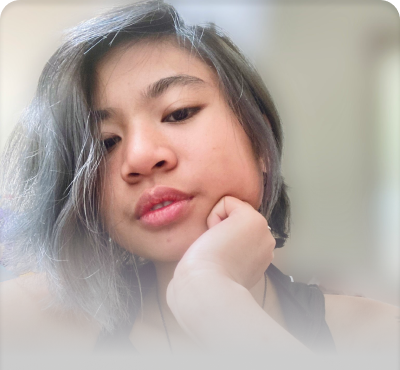
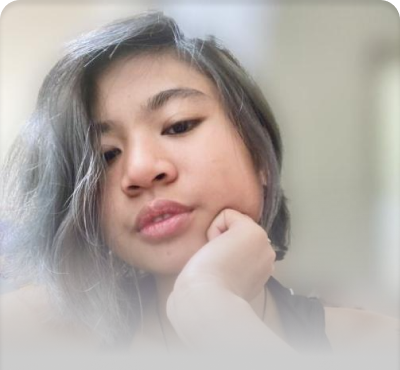
Finish card content hovering effect

diff --git a/sluggaming/src/components/Staff Page/StaffCard.jsx b/sluggaming/src/components/Staff Page/StaffCard.jsx
@@ -1,48 +1,95 @@
 import React from 'react'
-import ReactCardFlip from 'react-card-flip'
-import { useState } from 'react';
+// import ReactCardFlip from 'react-card-flip'
+// import { useState } from 'react';
+import { Link } from 'react-router-dom'
+import { FaLinkedin, FaInstagram } from "react-icons/fa6";
 
-const StaffCard = ({ name, role, location, image, username, pronouns, content }) => {
-  const [isFlipped, setIsFlipped] = useState(false);
+const StaffCard = ({ name, role, location, image, username, pronouns, content, linkedin, instagram }) => {
+  // const [isFlipped, setIsFlipped] = useState(false);
 
-  function flipCard() {
-    setIsFlipped(!isFlipped);
-  }
+  // function flipCard() {
+  //   setIsFlipped(!isFlipped);
+  // }
   return (
-    <div className=''>
-      <ReactCardFlip flipDirection='horizontal' isFlipped={isFlipped}>
-        <section id='front' className='card' onClick={flipCard}>
-          <div className='shadow-lg rounded-[25px]'>
-            <div className='rounded-t-[25px]'>
-              <img src={require(`../../images/Staff Page/${image}`)} alt={name} loading="lazy" width="745" height='676' />
-            </div>
-            <div className='px-7 pt-7 pb-14 bg-[#00588F] rounded-b-[25px]'>
-              <div className='text-3xl text-[#FFCC04] mb-3'>
-                {name}
-              </div>
-              <div className='text-white text-2xl pt-1'>
-                {role}
-              </div>
-              <div className='text-white text-2xl flex items-center pt-1'>
-                <svg xmlns="http://www.w3.org/2000/svg" width="24" height="24" viewBox="0 0 24 24" fill="none" className='mr-2'>
-                  <path d="M12 12.75C13.6569 12.75 15 11.4069 15 9.75C15 8.09315 13.6569 6.75 12 6.75C10.3431 6.75 9 8.09315 9 9.75C9 11.4069 10.3431 12.75 12 12.75Z" stroke="white" stroke-width="2" stroke-linecap="round" stroke-linejoin="round" />
-                  <path d="M19.5 9.75C19.5 16.5 12 21.75 12 21.75C12 21.75 4.5 16.5 4.5 9.75C4.5 7.76088 5.29018 5.85322 6.6967 4.4467C8.10322 3.04018 10.0109 2.25 12 2.25C13.9891 2.25 15.8968 3.04018 17.3033 4.4467C18.7098 5.85322 19.5 7.76088 19.5 9.75V9.75Z" stroke="white" stroke-width="2" stroke-linecap="round" stroke-linejoin="round" />
-                </svg>
-                {location}
-              </div>
-            </div>
+    // <div className=''>
+    //   <ReactCardFlip flipDirection='horizontal' isFlipped={isFlipped}>
+    //     <section id='front' className='card' onClick={flipCard}>
+    //       <div className='shadow-lg rounded-[25px] '>
+    //         <div className=''>
+    //           <div className='rounded-t-[25px] z-2'>
+    //             <img src={require(`../../images/Staff Page/${image}`)} alt={name} loading="lazy" width="745" height='676' />
+    //           </div>
+    //         </div>
+    //         <div className='px-7 pt-7 pb-14 bg-[#00588F] rounded-b-[25px]'>
+    //           <div className='text-3xl text-[#FFCC04] mb-3'>
+    //             {name}
+    //           </div>
+    //           <div className='text-white text-2xl pt-1'>
+    //             {role}
+    //           </div>
+    //           <div className='text-white text-2xl flex items-center pt-1'>
+    //             <svg xmlns="http://www.w3.org/2000/svg" width="24" height="24" viewBox="0 0 24 24" fill="none" className='mr-2'>
+    //               <path d="M12 12.75C13.6569 12.75 15 11.4069 15 9.75C15 8.09315 13.6569 6.75 12 6.75C10.3431 6.75 9 8.09315 9 9.75C9 11.4069 10.3431 12.75 12 12.75Z" stroke="white" stroke-width="2" stroke-linecap="round" stroke-linejoin="round" />
+    //               <path d="M19.5 9.75C19.5 16.5 12 21.75 12 21.75C12 21.75 4.5 16.5 4.5 9.75C4.5 7.76088 5.29018 5.85322 6.6967 4.4467C8.10322 3.04018 10.0109 2.25 12 2.25C13.9891 2.25 15.8968 3.04018 17.3033 4.4467C18.7098 5.85322 19.5 7.76088 19.5 9.75V9.75Z" stroke="white" stroke-width="2" stroke-linecap="round" stroke-linejoin="round" />
+    //             </svg>
+    //             {location}
+    //           </div>
+    //         </div>
+    //       </div>
+    //     </section>
+    //     <section id='back'>
+    //       <div className='bg-[#CCC] shadow-lg rounded-[25px] card card-back' onClick={flipCard}>
+    //         <div className='p-7'>
+
+    //         </div>
+    //       </div>
+    //     </section>
+    //   </ReactCardFlip>
+    // </div>
+    <div className="flex justify-center flex-col">
+      <div className="group relative cursor-pointer items-center justify-center overflow-hidden transition-shadow  hover:shadow-gray/30 rounded-[25px]">
+        <img src={require(`../../images/Staff Page/${image}`)} alt={name} loading="lazy" className="object-cover transition-transform duration-500 group-hover:rotate-3 group-hover:scale-125" width="745" height='676' />
+        {/* Shadows */}
+        <div className="absolute inset-0 bg-gradient-to-b from-transparent via-transparent to-gray group-hover:from-black/70 group-hover:via-black/60 group-hover:to-black/70"></div>
+        <div className="absolute inset-0 flex translate-y-[60%] flex-col items-center justify-center px-9 text-center transition-all duration-500 group-hover:translate-y-0">
+          <div className="mb-3 italic text-white opacity-0 transition-opacity duration-300 group-hover:opacity-100">
+            <div className='text-[#FFCC04] text-2xl'>{username}&nbsp;{pronouns}</div>
+            <div className='text-white pt-5 text-base'>{content}</div>
           </div>
-        </section>
-        <section id='back' className=''>
-          <div className='card card-back bg-[#CCC] shadow-lg rounded-[25px]' onClick={flipCard}>
-            <div className='text-[#00588F] text-3xl'>{username}</div>
-            <div className='text-white pt-2 text-2xl'>{pronouns}</div>
-            <div className='text-black pt-5 text-xl'>{content}</div>
+          {/* Button/s */}
+          <div className="flex gap-2">
+            {linkedin && (
+              <Link to={linkedin} className="text-white">
+                <FaLinkedin className='w-8 h-8' />
+              </Link>
+            )}
+            {instagram && (
+              <Link to={instagram} className="text-white">
+                <FaInstagram className='w-8 h-8' />
+              </Link>
+            )}
           </div>
-        </section>
-      </ReactCardFlip>
+        </div>
+        <div className='px-7 pt-7 pb-14 bg-[#00588F]'>
+          <div className='text-3xl text-[#FFCC04] mb-3'>
+            {name}
+          </div>
+          <div className='text-white text-2xl pt-1'>
+            {role}
+          </div>
+          <div className='text-white text-2xl flex items-center pt-1'>
+            <svg xmlns="http://www.w3.org/2000/svg" width="24" height="24" viewBox="0 0 24 24" fill="none" className='mr-2'>
+              <path d="M12 12.75C13.6569 12.75 15 11.4069 15 9.75C15 8.09315 13.6569 6.75 12 6.75C10.3431 6.75 9 8.09315 9 9.75C9 11.4069 10.3431 12.75 12 12.75Z" stroke="white" stroke-width="2" stroke-linecap="round" stroke-linejoin="round" />
+              <path d="M19.5 9.75C19.5 16.5 12 21.75 12 21.75C12 21.75 4.5 16.5 4.5 9.75C4.5 7.76088 5.29018 5.85322 6.6967 4.4467C8.10322 3.04018 10.0109 2.25 12 2.25C13.9891 2.25 15.8968 3.04018 17.3033 4.4467C18.7098 5.85322 19.5 7.76088 19.5 9.75V9.75Z" stroke="white" stroke-width="2" stroke-linecap="round" stroke-linejoin="round" />
+            </svg>
+            {location}
+          </div>
+        </div>
+      </div>
     </div>
   )
 }
 
 export default StaffCard
+
+// Citations:  https://play.tailwindcss.com/t8hoEfMek9

diff --git a/sluggaming/src/components/Navbar.jsx b/sluggaming/src/components/Navbar.jsx
@@ -13,7 +13,7 @@ const Navbar = () => {
 
     let [open, setOpen] = useState(false);
     return (
-        <div className='fixed w-full shadow-2xl'>
+        <div className='fixed w-full shadow-2xl z-10'>
             <div className='bg-[#00588F] items-center justify-between min-[1100px]:flex min-[1100px]:px-10 px-7'>
                 <div className='font-bold text-[32px] tracking-[0.96px] cursor-pointer flex items-center text-[#FFCC04] font-Montserrat uppercase'>
                     <Link to={"/"} className='mr-[20px]'>

diff --git a/sluggaming/src/pages/Home.js b/sluggaming/src/pages/Home.js
@@ -5,8 +5,6 @@ const Home = () => {
     return (
         <div className=''>
             <img src={require('../images/Home Page/Banner.png')} alt='home-page-banner' className='hidden md:block' loading="lazy"></img>
-            <img src={require('../images/Home Page/Banner md.png')} alt='home-page-banner' className='pt-[85px] block md:hidden' loading="lazy"></img>
-            <Panel_1 />
         </div>
     )
 }
